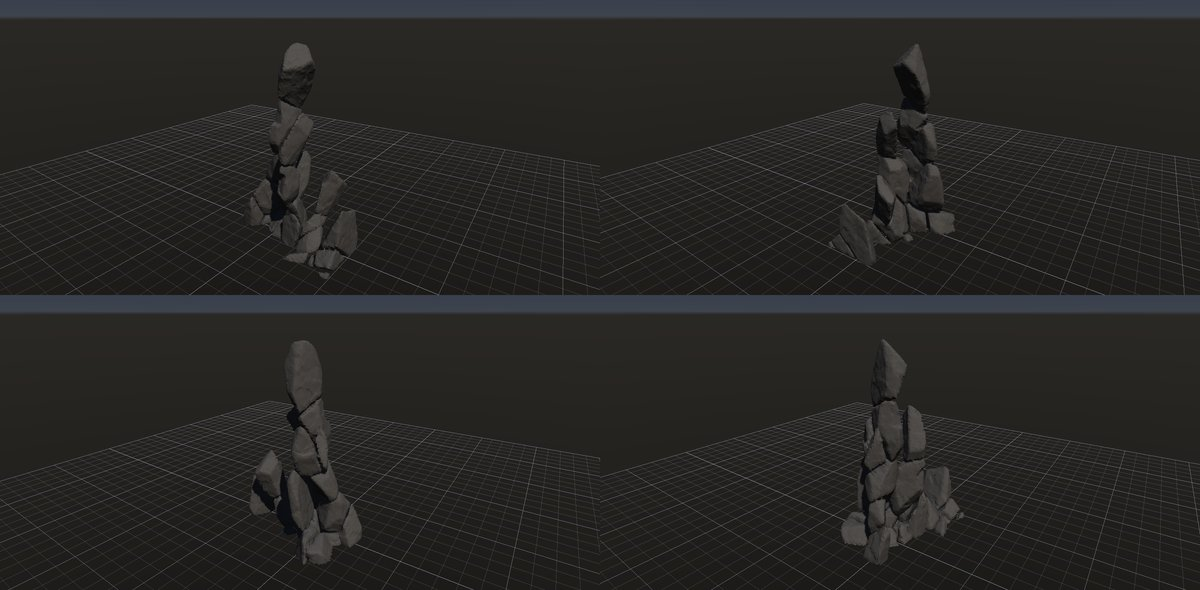
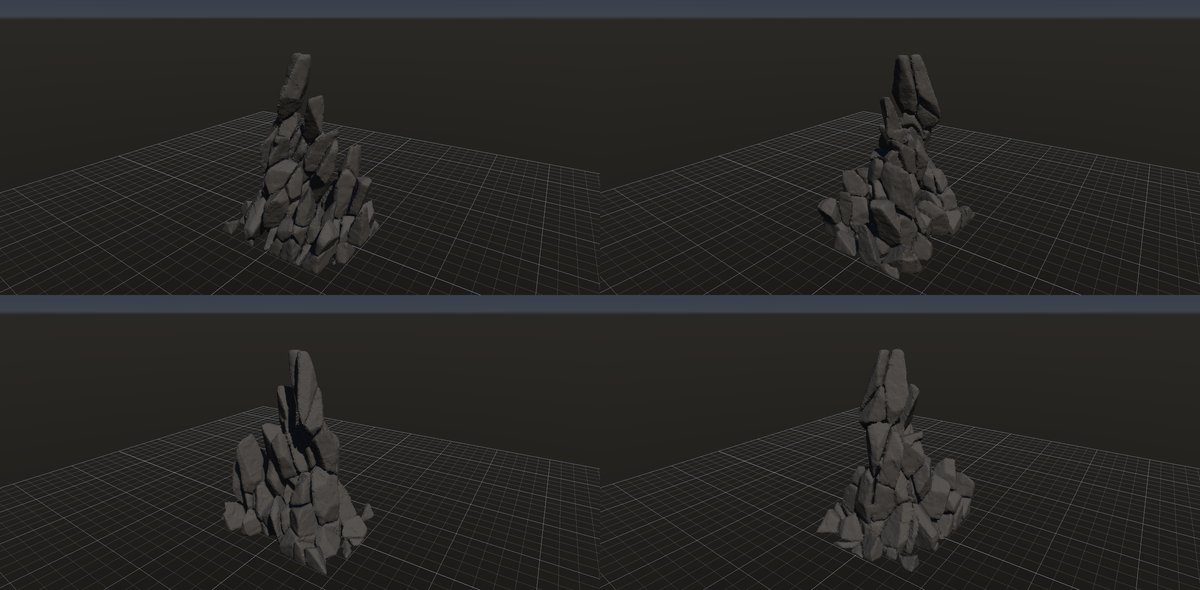
feat: 岩峰を上ほど細くする（Scatter Points の高さの勾配、Peel の側面の後退）
Scatter Points に高さの勾配（上ほど/下ほど点を密にする）を足した。
Peel に側面の後退を足した。元の側面から横へ削れる深さを「後退 × 高さ」までにし、
上ほど長く側面から削られた形（上ほど細く、芯は残る）にする。どちらも既定 0 で従来と同じ。
granite-buttress は裾が広く上ほど細い 12.5 m の尖塔にした。

diff --git a/src/geometry/PieceErosion.cpp b/src/geometry/PieceErosion.cpp
@@ -40,6 +40,9 @@ PieceSelection PeelPieces(const PieceCollection& c, const PieceSelectSettings& s
     if (!std::isfinite(s.peelSize) || s.peelSize<0 || s.peelSize>1) {
         error="大きさの効きは0〜1にしてください"; return {};
     }
+    if (!std::isfinite(s.peelRetreat) || s.peelRetreat<0 || s.peelRetreat>1000) {
+        error="側面の後退は0〜1000 mにしてください"; return {};
+    }
     // 大きさの効き: 体積を最大の片で割った値（0～1）を順位に足す。大きな片ほど後まで残る。
     double largest=0;
     for (const auto& p:c.pieces) largest=std::max(largest,p.volume);
@@ -49,7 +52,7 @@ PieceSelection PeelPieces(const PieceCollection& c, const PieceSelectSettings& s
         std::vector<Vertical> vertical;
         std::array<double,2> cap{}, covered{};
         double total=0, support=0, noise=0;
-        bool exposed=false, removed=false, protectedCore=false, grounded=false;
+        bool exposed=false, removed=false, protectedCore=false, grounded=false, tooDeep=false;
     };
     const size_t n=c.pieces.size();
     std::vector<State> state(n);
@@ -110,6 +113,48 @@ PieceSelection PeelPieces(const PieceCollection& c, const PieceSelectSettings& s
         v.noise=(double(hash>>11)*0x1.0p-53-.5)*s.peelNoise;
     }
 
+    // 側面の後退: 周りの地面が下がるにつれて上から順に崖の面が地表に出て、出た時から横へ削られる。高い所ほど長く
+    // 削られるので、元の側面から横へ削れる深さを「後退 × 高さ（0 が底、1 が頂）」までにする。深さは片の重心から、
+    // 元の外面のうち横を向いた面（法線が水平から 45° 以内）までの距離。上ほど細くなり、芯は削り切らない。
+    // 上限の深さはばらつき（±半分）で片ごとに揺らす。
+    if (s.peelRetreat>0) {
+        const auto apply=[](const Piece& p,const Vec3& v) {
+            const auto& m=p.transform;
+            return std::array<double,3>{m[0]*v.x+m[1]*v.y+m[2]*v.z+m[3],m[4]*v.x+m[5]*v.y+m[6]*v.z+m[7],
+                                        m[8]*v.x+m[9]*v.y+m[10]*v.z+m[11]};
+        };
+        std::vector<std::array<double,3>> sides, centers(n);
+        double low=std::numeric_limits<double>::infinity(), high=-low;
+        for (size_t i=0;i<n;++i) {
+            const auto& p=c.pieces[i];
+            centers[i]=apply(p,p.centroid);
+            low=std::min(low,centers[i][1]);high=std::max(high,centers[i][1]);
+            if (!p.mesh || !p.faceOrigins || p.faceOrigins->size()!=p.mesh->triangles.size()) continue;
+            for (size_t k=0;k<p.mesh->triangles.size();++k) {
+                if (!(*p.faceOrigins)[k]) continue;
+                const auto& t=p.mesh->triangles[k];
+                const auto a=apply(p,p.mesh->positions[t[0]]), b=apply(p,p.mesh->positions[t[1]]),
+                           d=apply(p,p.mesh->positions[t[2]]);
+                const std::array<double,3> u{b[0]-a[0],b[1]-a[1],b[2]-a[2]}, w{d[0]-a[0],d[1]-a[1],d[2]-a[2]};
+                const std::array<double,3> normal{u[1]*w[2]-u[2]*w[1],u[2]*w[0]-u[0]*w[2],u[0]*w[1]-u[1]*w[0]};
+                const double length=std::sqrt(normal[0]*normal[0]+normal[1]*normal[1]+normal[2]*normal[2]);
+                if (length>0 && std::abs(normal[1])<.7071*length)
+                    sides.push_back({(a[0]+b[0]+d[0])/3,(a[1]+b[1]+d[1])/3,(a[2]+b[2]+d[2])/3});
+            }
+        }
+        if (!sides.empty())
+            for (size_t i=0;i<n;++i) {
+                if (stop.stop_requested()) {error="評価をキャンセルしました";return {};}
+                double nearest=std::numeric_limits<double>::infinity();
+                for (const auto& q:sides) {
+                    const double x=q[0]-centers[i][0], y=q[1]-centers[i][1], z=q[2]-centers[i][2];
+                    nearest=std::min(nearest,x*x+y*y+z*z);
+                }
+                const double height=high>low ? (centers[i][1]-low)/(high-low) : 0;
+                state[i].tooDeep=std::sqrt(nearest)>s.peelRetreat*height*(1+state[i].noise);
+            }
+    }
+
     // 各連結部分の、露出面からグラフ距離が最も遠い片を1つ保護する。
     // 同距離なら大きい片、さらに同じなら小さいIDを選ぶ。保護は量とは独立。
     if (s.protectCore) {
@@ -145,7 +190,7 @@ PieceSelection PeelPieces(const PieceCollection& c, const PieceSelectSettings& s
         const auto& v=state[i];
         const bool sandwiched=v.cap[0]>0 && v.cap[1]>0 &&
             v.covered[0]>=v.cap[0]*(1-1e-6) && v.covered[1]>=v.cap[1]*(1-1e-6);
-        return weights[i]>0 && v.exposed && !v.removed && !v.protectedCore && v.total>0 && !sandwiched;
+        return weights[i]>0 && v.exposed && !v.removed && !v.protectedCore && !v.tooDeep && v.total>0 && !sandwiched;
     };
     const size_t eligible=std::count_if(weights.begin(),weights.end(),[](float w){return w>=0;});
     const size_t budget=size_t(std::floor(double(eligible)*s.fraction+1e-8));

diff --git a/src/geometry/Pieces.cpp b/src/geometry/Pieces.cpp
@@ -469,6 +469,10 @@ PointSet ScatterPoints(const Mesh &mesh, const ScatterSettings &s, std::string &
         error = "密度のむらは 0～1、むらの細かさは 0.5～16 にしてください";
         return {};
     }
+    if (!std::isfinite(s.heightGradient) || s.heightGradient < -1 || s.heightGradient > 1) {
+        error = "高さの勾配は -1～1 にしてください";
+        return {};
+    }
     // むらの間引きは別の乱数で行い、むら 0 では従来と同じ点の並びにする。
     uint64_t thinning = uint64_t(s.seed) ^ 0x6C75737465720000ull;
     Poly poly;
@@ -500,10 +504,19 @@ PointSet ScatterPoints(const Mesh &mesh, const ScatterSettings &s, std::string &
             }
         if (!valid)
             continue;
-        if (s.clustering > 0) {
+        if (s.clustering > 0 || s.heightGradient != 0) {
             // 受け入れる確率: むらの低い所ほど下げる（ノイズの 2 乗で、疎な所をはっきり疎にする）。
-            const double n = SmoothNoise(p * double(s.clusterScale), uint64_t(s.seed) * 0x2545F4914F6CDD1Dull);
-            if (Uniform(thinning) > (1 - s.clustering) + s.clustering * n * n)
+            double keep = 1;
+            if (s.clustering > 0) {
+                const double n = SmoothNoise(p * double(s.clusterScale), uint64_t(s.seed) * 0x2545F4914F6CDD1Dull);
+                keep = (1 - s.clustering) + s.clustering * n * n;
+            }
+            // 高さの勾配: 密にしない側ほど受け入れる確率を下げる。
+            if (s.heightGradient != 0 && hi.y > lo.y) {
+                const double t = std::clamp((p.y - lo.y) / (hi.y - lo.y), 0.0, 1.0);
+                keep *= s.heightGradient > 0 ? 1 - s.heightGradient * (1 - t) : 1 + s.heightGradient * t;
+            }
+            if (Uniform(thinning) > keep)
                 continue;
         }
         // 出力はfloatへ丸める。Voronoi Fractureは丸めた値から局所座標を求め直して内外を調べるので、
@@ -540,6 +553,8 @@ PointSet ScatterPoints(const Mesh &mesh, const ScatterSettings &s, std::string &
         h.Float(s.clustering);
         h.Float(s.clusterScale);
     }
+    if (s.heightGradient != 0)
+        h.Float(s.heightGradient);
     out.fingerprint = h.value;
     return out;
 }
@@ -553,6 +568,7 @@ PointSet ScatterPiecePoints(const PieceCollection& pieces, const ScatterSettings
     PointSet out; out.grouped=true; out.source=pieces.fingerprint;
     Hash hash; hash.Add(out.source); hash.Add(s.count); hash.Add(s.seed); hash.Add(s.planar);
     if (s.clustering > 0) { hash.Float(s.clustering); hash.Float(s.clusterScale); }
+    if (s.heightGradient != 0) hash.Float(s.heightGradient);
     std::set<uint32_t> seen;
     for (const auto& p:pieces.pieces) {
         if (stop.stop_requested()) {error="評価をキャンセルしました";return {};}

diff --git a/tests/PieceTests.cpp b/tests/PieceTests.cpp
@@ -641,6 +641,46 @@ static void RunPlaneFractureTests() {
         bad.clustering = 1.5f;
         ScatterPoints(tall, bad, error);
         Check(!error.empty(), "密度のむら: 範囲外を拒否する");
+        // 高さの勾配: 正で上半分に点が多く、負で下半分に多い。
+        const auto upper = [](const PointSet& points) {
+            int n = 0;
+            for (auto p : points.positions) n += p.y > 0;
+            return n;
+        };
+        ScatterSettings rising = even;
+        rising.heightGradient = 1;
+        ScatterSettings sinking = even;
+        sinking.heightGradient = -1;
+        const auto top = ScatterPoints(tall, rising, error);
+        Check(error.empty() && top.positions.size() == 200 && upper(top) > 140 && top.fingerprint != uniform.fingerprint,
+              "高さの勾配: 正で上ほど密になる");
+        Check(upper(ScatterPoints(tall, sinking, error)) < 60, "高さの勾配: 負で下ほど密になる");
+        bad = even;
+        bad.heightGradient = -1.5f;
+        ScatterPoints(tall, bad, error);
+        Check(!error.empty(), "高さの勾配: 範囲外を拒否する");
+        // 側面の後退: 横へ削れる深さが高さに比例し、上ほど多く欠けて、芯は残る。
+        {
+            const auto cells = FractureVoronoi(tall, uniform, {}, 9, error);
+            PieceSelectSettings retreat;
+            retreat.mode = PieceSelectMode::Peel;
+            retreat.fraction = 1;
+            retreat.peelNoise = 0;
+            retreat.protectCore = false;
+            retreat.peelRetreat = 1.2f;
+            const auto shaved = SelectPieces(cells, retreat, error);
+            int upperRemoved = 0, lowerRemoved = 0;
+            for (auto id : shaved.ids)
+                for (const auto& p : cells.pieces)
+                    if (p.id == id) (p.centroid.y > 0 ? upperRemoved : lowerRemoved) += 1;
+            Check(error.empty() && upperRemoved > 2 * lowerRemoved && shaved.ids.size() < cells.pieces.size() / 2,
+                  "側面の後退: 上ほど多く欠け、芯は削り切らない");
+            retreat.peelRetreat = 0;
+            Check(SelectPieces(cells, retreat, error).ids.size() == cells.pieces.size(), "側面の後退 0 では上限が無い");
+            retreat.peelRetreat = -1;
+            SelectPieces(cells, retreat, error);
+            Check(!error.empty(), "側面の後退: 範囲外を拒否する");
+        }
         const auto pieces = FractureVoronoi(tall, lumpy, {}, 9, error);
         PieceSelectSettings sized;
         sized.mode = PieceSelectMode::Peel;

diff --git a/src/io/PieceSettings.h b/src/io/PieceSettings.h
@@ -14,7 +14,7 @@ inline nlohmann::json WritePieceSettings(const graph::Node &node) {
                 {"offset",s->offset},{"seed",s->seed}};
     if (auto *s = std::get_if<ScatterSettings>(&node.settings))
         return {{"count", s->count}, {"seed", s->seed}, {"version", s->version}, {"planar",s->planar},
-                {"clustering", s->clustering}, {"clusterScale", s->clusterScale}};
+                {"clustering", s->clustering}, {"clusterScale", s->clusterScale}, {"heightGradient", s->heightGradient}};
     if (auto *s = std::get_if<VoronoiSettings>(&node.settings))
         return {{"rotation", s->rotation}, {"stretch", s->stretch}, {"version", s->version}};
     if (auto *s = std::get_if<PieceFilterSettings>(&node.settings))
@@ -31,7 +31,7 @@ inline nlohmann::json WritePieceSettings(const graph::Node &node) {
                 {"invert", s->invert},
                 {"layer",s->layer},
                 {"rimLayers",s->rimLayers}, {"rimSide",s->rimSide}, {"rimFalloff",s->rimFalloff},
-                {"peelNoise",s->peelNoise}, {"protectCore",s->protectCore}, {"grounded",s->grounded}, {"peelSize",s->peelSize}, {"stability",s->stability},
+                {"peelNoise",s->peelNoise}, {"protectCore",s->protectCore}, {"grounded",s->grounded}, {"peelSize",s->peelSize}, {"stability",s->stability}, {"peelRetreat",s->peelRetreat},
                 {"producer", s->producer},
                 {"generation", std::to_string(s->generation)},
                 {"ids", s->ids}};
@@ -108,6 +108,7 @@ inline void ReadPieceSettings(graph::Node &node, const nlohmann::json &value) {
         read(value, "planar", s->planar);
         read(value, "clustering", s->clustering);
         read(value, "clusterScale", s->clusterScale);
+        read(value, "heightGradient", s->heightGradient);
     }
     if (auto *s = std::get_if<VoronoiSettings>(&node.settings)) {
         read(value, "rotation", s->rotation);
@@ -138,6 +139,7 @@ inline void ReadPieceSettings(graph::Node &node, const nlohmann::json &value) {
         read(value, "grounded",s->grounded);
         read(value, "peelSize",s->peelSize);
         read(value, "stability",s->stability);
+        read(value, "peelRetreat",s->peelRetreat);
         read(value, "producer", s->producer);
         generation(s->generation);
         read(value, "ids", s->ids);

diff --git a/src/app/ApplicationPiecePanel.cpp b/src/app/ApplicationPiecePanel.cpp
@@ -34,7 +34,10 @@ void Application::DrawPieceSettings(graph::Node &node) {
                 "大きなノイズで点を間引き、割れの多い帯（小さな片）と割れの少ない芯（大きな片）を作ります。0では一様です。");
             changed |= ui::PropertyFloat("むらの細かさ", &scatter->clusterScale, .5f, 16, 2,
                 "形の最長辺あたりのむらの数です。");
+            changed |= ui::PropertyFloat("高さの勾配", &scatter->heightGradient, -1, 1, 0,
+                "正で上ほど点を密に（上ほど小さな片）、負で下ほど密にします。地表に近いほど節理が密になる様子です。0では一様です。");
             scatter->clustering = std::clamp(scatter->clustering, 0.f, 1.f);
+            scatter->heightGradient = std::clamp(scatter->heightGradient, -1.f, 1.f);
             scatter->clusterScale = std::clamp(scatter->clusterScale, .5f, 16.f);
             int seed = int(scatter->seed);
             if (ui::PropertyInt("Seed", &seed, 0, 1000000, 1)) {
@@ -97,6 +100,10 @@ void Application::DrawPieceSettings(graph::Node &node) {
                 changed |= ui::PropertyFloat("大きさの効き", &selection->peelSize, 0, 1, 0,
                     "小さな片ほど先に欠けます（崩れやすい）。大きな片の芯が残ります。");
                 selection->peelSize = std::clamp(selection->peelSize, 0.f, 1.f);
+                changed |= ui::PropertyFloat("側面の後退 (m)", &selection->peelRetreat, 0, 1000, 0,
+                    "元の側面から横へ削れる深さの上限です。頂でこの深さ、底で 0 になり、上ほど細くなります。"
+                    "上ほど長く側面から削られた様子です。0 では上限がありません。");
+                selection->peelRetreat = std::clamp(selection->peelRetreat, 0.f, 1000.f);
                 changed |= ui::PropertyBool("接地", &selection->grounded, false,
                     "下向きの外面を地面に支えられた面として扱い、そこからは欠きません。"
                     "地面から生えた岩（岩峰・露頭・崖）が上と横から欠け、根元が最後まで残ります。");

diff --git a/src/graph/NodeParams.cpp b/src/graph/NodeParams.cpp
@@ -105,6 +105,8 @@ constexpr ParamDefinition kParams[] = {
     {K::ScatterPoints, "pieces.clustering", T::Float, 0, 1, "比", "密度のむら",
      "大きなノイズで点を間引き、割れの多い帯（小さな片）と割れの少ない芯（大きな片）を作る。0 で一様", C::Error},
     {K::ScatterPoints, "pieces.clusterScale", T::Float, 0.5, 16, "最長辺あたりのむらの数", "むらの細かさ", "", C::Error},
+    {K::ScatterPoints, "pieces.heightGradient", T::Float, -1, 1, "比", "高さの勾配",
+     "正で上（ローカル +Y）ほど点を密に（上ほど小さな片）、負で下ほど密にする。地表に近いほど節理が密になる様子。0 で一様", C::Error},
     {K::ScatterPoints, "pieces.seed", T::Int, 0, N, "", "Seed", "", C::None},
     {K::ScatterPoints, "pieces.version", T::Int, 1, 1, "", "", "アルゴリズムの版。1 のまま", C::Error, {}, true},
     {K::VoronoiFracture, "pieces.rotation", T::Float3, N, N, "度", "方向", "分割の座標系の向き（Z → X → Y）", C::Error},
@@ -129,6 +131,8 @@ constexpr ParamDefinition kParams[] = {
     {K::PieceSelect, "pieces.protectCore", T::Bool, N, N, "", "中心の片を保護", "peel 用。上下を覆われた中間層を守る", C::None},
     {K::PieceSelect, "pieces.peelSize", T::Float, 0, 1, "比", "大きさの効き",
      "peel 用。小さな片ほど先に欠ける（崩れやすい）。大きな片の芯が残る", C::Error},
+    {K::PieceSelect, "pieces.peelRetreat", T::Float, 0, 1000, "m", "側面の後退",
+     "peel 用。元の側面（横を向いた外面）から横へ削れる深さの上限。頂でこの値、底で 0（重心の高さに比例）。上ほど細くなり、芯は削り切らない。0 で上限なし", C::Error},
     {K::PieceSelect, "pieces.stability", T::Float, 0, 1, "比", "安定",
      "peel・接地用。下で支える片に載る面積が片の大きさ（体積の 2/3 乗）に足りないと転げ落ちる。頭でっかちの片が残らず、上ほど細く尖る", C::Error},
     {K::PieceSelect, "pieces.grounded", T::Bool, N, N, "", "接地",

diff --git a/src/graph/RockEvaluator.cpp b/src/graph/RockEvaluator.cpp
@@ -124,6 +124,7 @@ std::optional<std::string> VolumeKey(const NodeGraph& graph, GraphId id, const s
         add(layers->thicknessVariation); add(layers->sizeVariation); add(layers->offset); add(layers->seed);
     } else if (const auto* scatter = std::get_if<geometry::ScatterSettings>(&node->settings)) {
         add(scatter->count); add(scatter->seed); add(scatter->version); add(scatter->planar); add(scatter->clustering); add(scatter->clusterScale);
+        add(scatter->heightGradient);
     } else if (const auto* voronoi = std::get_if<geometry::VoronoiSettings>(&node->settings)) {
         add(voronoi->rotation); add(voronoi->stretch); add(voronoi->version);
     } else if (const auto* selection = std::get_if<geometry::PieceSelectSettings>(&node->settings)) {
@@ -131,6 +132,7 @@ std::optional<std::string> VolumeKey(const NodeGraph& graph, GraphId id, const s
         add(selection->minVolume); add(selection->maxVolume); add(selection->fraction); add(selection->invert); add(selection->producer); add(selection->generation); add(selection->layer);
         add(selection->rimLayers); add(selection->rimSide); add(selection->rimFalloff);
         add(selection->peelNoise); add(selection->protectCore); add(selection->grounded); add(selection->peelSize); add(selection->stability);
+        add(selection->peelRetreat);
         add(selection->ids.size()); for (auto value : selection->ids) add(value);
     } else if (const auto* filter = std::get_if<geometry::PieceFilterSettings>(&node->settings)) {
         add(filter->keep);

diff --git a/src/geometry/Pieces.h b/src/geometry/Pieces.h
@@ -20,6 +20,10 @@ struct ScatterSettings {
     // 大きな片）を作る。clusterScale は形の最長辺あたりのむらの数（0.5～16）。0 なら従来と同じ配置。
     float clustering = 0;
     float clusterScale = 2;
+    // 高さの勾配（-1～1）。正で上（ローカル +Y）ほど点を密に、負で下ほど密にする。地表に近いほど節理が密になる
+    // （深い所ほど割れの間隔が広い）ことを表す。受け入れる確率を、高さ t（0 が底、1 が頂）で 1 − g × (1 − t)
+    // （負なら 1 − |g| × t）にする。0 なら従来と同じ配置。
+    float heightGradient = 0;
     bool operator==(const ScatterSettings &) const = default;
 };
 struct VoronoiSettings {
@@ -112,6 +116,9 @@ struct PieceSelectSettings {
     bool grounded = false;
     // peel・接地用。安定（0～1）。下で支える片に載る面積が片の大きさに足りないと転げ落ちる（頭でっかちの片が残らない）。
     float stability = 0;
+    // peel 用。側面の後退（m、0 で無効）。元の側面から横へ削れる深さを「後退 × 高さ（0 が底、1 が頂）」までにする。
+    // 周りの地面が下がるにつれ上ほど早く地表に出て長く側面から削られたことを表し、上ほど細くなる。芯は削り切らない。
+    float peelRetreat = 0;
     int producer = 0;
     uint64_t generation = 0;
     std::vector<uint32_t> ids;

diff --git a/tests/NodeParamsTests.cpp b/tests/NodeParamsTests.cpp
@@ -171,6 +171,7 @@ const std::vector<EdgeRule>& EdgeRules() {
         {"pieceSelect:pieces.rimFalloff", {{"pieces.mode", 5}}},
         {"pieceSelect:pieces.peelNoise", {{"pieces.mode", 6}}},
         {"pieceSelect:pieces.peelSize", {{"pieces.mode", 6}}},
+        {"pieceSelect:pieces.peelRetreat", {{"pieces.mode", 6}}},
         {"pieceSelect:pieces.stability", {{"pieces.mode", 6}, {"pieces.grounded", true}}},
         {"pieceSelect:pieces.minVolume", {{"pieces.mode", 3}}},
         {"pieceSelect:pieces.maxVolume", {{"pieces.mode", 3}, {"pieces.minVolume", 0}}},

diff --git a/src/graph/PieceEvaluator.cpp b/src/graph/PieceEvaluator.cpp
@@ -55,6 +55,7 @@ RockEvaluation EvaluatePieceNode(const NodeGraph &graph, const Node &node, RockE
             add(s.planar);
             add(s.clustering);
             add(s.clusterScale);
+            add(s.heightGradient);
         } else {
             const bool hasPoints = node.inputs.size() > 1 && graph.FindUpstreamNodeForPin(node.inputs[1].id);
             const bool hasPlanes = node.inputs.size() > 2 && graph.FindUpstreamNodeForPin(node.inputs[2].id);

diff --git a/docs/research/rocks.md b/docs/research/rocks.md
@@ -1,7 +1,7 @@
 # 岩の研究ページ
 
 作成日時: 2026-10-01 12:50
-更新日時: 2026-10-02 00:30
+更新日時: 2026-10-02 01:55
 
 「あらゆる種類の岩を作れること」を目標に、岩の種類ごとに今の出来・作り方・課題・改善の履歴を残すページ。一つずつ改善していく。足りないノードの整理（G 番号）は [岩の種類の網羅](../reference/rock-catalog.md)、組み方の手順は [skill](../../.agents/skills/rock-graph/SKILL.md)。
 
@@ -32,7 +32,7 @@
 | [河原の丸石](#河原の丸石) | ○ | `river-pebble` | 形が単調 |
 | [丸い転石](#丸い転石) | ○ | `rounded-boulder` | — |
 | [花崗岩のシーティング](#花崗岩のシーティング) | △ | `granite-sheeting` | 平らな面のボクセルの格子模様 |
-| [花崗岩の岩峰](#花崗岩の岩峰) | △ | `granite-buttress` | 微小な空洞が残る |
+| [花崗岩の岩峰](#花崗岩の岩峰) | △ | `granite-buttress` | 裾に箱の四角い外周が残る |
 | [黒曜石・フリント](#黒曜石フリント) | ○ | `obsidian` | ガラス質の素材 |
 | [礫岩](#礫岩) | ○ | `conglomerate` | 礫と基質の色の違い |
 | [角礫岩](#角礫岩) | △ | `breccia` | 礫と基質の色の違い |
@@ -175,8 +175,8 @@
 - 状態: △
 - レシピ: [`granite-buttress`](../../examples/ai-recipes/granite-buttress.rockgraph)
 - 手本: 木曽駒ケ岳（宝剣岳〜千畳敷）の花崗岩の岩峰。ユーザーが撮った写真（`docs/references/DSC08761`・`DSC08749`。Git の対象外）。急傾斜の節理で縦長の塔に割れ、凍結破砕で尖る。塔は同じ向きに傾き、根元でつながる。
-- 作り方: 成因どおりに組む。大きめの岩体（Base Shape の箱）を、点の Voronoi で不規則な多面体のブロックに割る。分割の座標系を主な節理の向き（76°）に回し、伸長 [2.5, 1, 1.6] で節理面の方向に細長く・節理面に垂直に薄くする。Scatter Points の密度のむらで割れの多い帯と割れの少ない芯を作り、Piece Select の Peel（接地・大きさの効き）で外周の小さなブロックから抜き取る（凍結破砕。底からは欠かず、下のブロックに載っていない片は落ちる）。Piece Transform のばらつきでブロックを少しずつずらして傾け、To Volume でまとめる（ずれた隙間が段違いの継ぎ目になる）。局所の欠け・小面のノイズ・角の摩耗。割れの少ない芯が 1 本の塔として残る。Peel の「安定」で頭でっかちのブロックを落とし、上ほど細く尖らせる。岩体は縦長の箱（10 × 15 × 8 m）、塔は高さ約 11.5 m。山グラフで斜面に撒く部品として使う想定。
-- 課題: 足元に崩れたブロックの塊が別に残る（最大の塊が体積の 89%。崖錐とも見える）。頂のブロックは細長いが先端が丸い。塔は 1 本でよい（ユーザー判断）。
+- 作り方: 成因どおりに組む。大きめの岩体（Base Shape の箱）を、点の Voronoi で不規則な多面体のブロックに割る。分割の座標系を主な節理の向き（76°）に回し、伸長 [2.5, 1, 1.6] で節理面の方向に細長く・節理面に垂直に薄くする。Scatter Points の密度のむらで割れの多い帯と割れの少ない芯を作り、Piece Select の Peel（接地・大きさの効き）で外周の小さなブロックから抜き取る（凍結破砕。底からは欠かず、下のブロックに載っていない片は落ちる）。Piece Transform のばらつきでブロックを少しずつずらして傾け、To Volume でまとめる（ずれた隙間が段違いの継ぎ目になる）。局所の欠け・小面のノイズ・角の摩耗。割れの少ない芯が 1 本の塔として残る。Peel の「安定」で頭でっかちのブロックを落とす。上ほど細くするのは、Scatter Points の高さの勾配（上ほど節理が密で、頂が小さなブロックに割れる）と、Peel の側面の後退（上ほど長く側面から削られる。横へ削れる深さを頂で 4 m、底で 0 まで）。進行は 1 で、後退の上限まで削る。岩体は縦長の箱（10 × 15 × 8 m）、塔は高さ約 12.5 m で裾が広い。山グラフで斜面に撒く部品として使う想定。
+- 課題: 裾に元の箱の四角い外周が残る所がある（底の後退が 0 のため）。ブロックの積み重なりが目立ち、一枚岩の塔らしさは弱い。塔は 1 本でよい（ユーザー判断）。
 - 履歴:
   - 2026-10-01 初版。縦長の塊 1 つを割れ目で塔に分ける案は、溝が格子に並んでレンガの柱になった（上が細らない）。全体を大きな平面で切ると高さが半分に縮んだ（水平に近い面が頂を削る）。塔を別々に作って和にする案に変えた。根元の塊を無くすと塔どうしが溶けて 1 つの塊になり、残して埋める形にした。割れ目は noise を上げると点線に途切れ、variation を下げると石積みの格子になるので、主な節理だけ幅を持たせ、横の節理は細く浅くした。
   - 2026-10-01 Volume Crack に有限の割れ目（長さ・割合・段違い）を足して使った。節理が途中で止まって段違いにずれ、格子の感じが減った。主な節理は間隔 1.1 → 0.7 m・長さ 0.3・割合 0.55・段違い 0.8、横の節理は長さ 0.15・割合 0.35。
@@ -184,6 +184,7 @@
   - 2026-10-01 ユーザーの指摘（ブロックがそろいすぎて不自然。直方体ではなく、Voronoi のような多面体がずれている感じにしたい）で、構造面の分割を点の Voronoi に替えた。座標系を節理の向きに回して伸長し、節理の向きに細長い多面体にした。Piece Transform にばらつき（片ごとのずれ・傾き）を足してブロックをずらした。最初は元の箱の天面と側面が平らに残り石垣のように見えたので、岩体を奥行きも大きくして侵食を進めた。構造面で割る組み方（Voronoi Fracture の Planes 入力）は、層理・板状節理など規則的な割れ方の岩に使う。
   - 2026-10-01 ユーザーの指摘（塔のようなひと塊にまとまっていない）で、Scatter Points に密度のむら、Peel に大きさの効きを足した（割れの少ない所が硬い芯として残る、という成因）。最初は元の箱の天面が平らに残って箱に見えたので、岩体を縦長にし、大きさの効きを弱めて上からの侵食を進めた。進行を上げすぎると石を積んだケルンのように細くなった。楕円体の岩体は、メッシュが凸の判定（許容差 2e-7）を通らず使えなかった。
   - 2026-10-01 ユーザーの指摘（上に大きな塊が乗っていて重力に反して見える。上ほど細く鋭く尖るのが自然）で、Peel の接地に「安定」を足した。安定 0.3〜0.45 で細い尖塔、0.6 では裾の広いピラミッド形で高さ 9 m に下がった。0.45 を使った。
+  - 2026-10-02 ユーザーの指摘（岩峰は上ほど細くなる。Voronoi の点を上ほど細かくしては）で、Scatter Points に高さの勾配を足した。勾配だけでは逆効果で、上の小さな片が大きさの効きで先に崩れて背が下がり（11.5 → 9〜10 m）、底の大きな片が箱型の裾に残った。Peel に「高さの効き」（上の片ほど横向きの露出面から先に欠く）を試したが、上の段が芯まで横に食われ背が 6〜7 m になり、取り消した。横へ削れる深さを高さに比例させる「側面の後退」で、裾が広く上ほど細い形になった（後退 3.5 m で 10.7 m）。高さの勾配 0.4 を足すと頂が小さな片で細く残り 12.5 m になった。後退があると進行は効かなくなる（上限で止まる）。
 
 ### 黒曜石・フリント
 

diff --git a/docs/reference/rock-catalog.md b/docs/reference/rock-catalog.md
@@ -1,7 +1,7 @@
 # 岩の種類の網羅（作れる岩と足りないノード）
 
 作成日時: 2026-10-01 08:30
-更新日時: 2026-10-02 00:30
+更新日時: 2026-10-02 01:55
 
 ## 目的
 
@@ -30,7 +30,7 @@
 | 河原の丸石・円礫 | 平たく丸い、なめらか | ○ | `river-pebble`（楕円体 + 弱いノイズ、Marching Tetrahedra） |
 | 丸い転石・迷子石 | 丸いが大きな面が残る | ○ | `rounded-boulder` |
 | 花崗岩のコアストーン・シーティング | 丸い塊に、表面に沿って湾曲した剥離の割れ目 | △ | `granite-sheeting`（Volume Crack の「表面に沿う殻」。G3 で対応）。剥がれた板の段は出る。段がもう少し厚く、縁が欠けているとよい |
-| 花崗岩の岩峰（岩稜） | 急傾斜の節理で割れた尖った塔が並び、根元でつながる | △ | `granite-buttress`（節理の向きに伸ばした Voronoi、密度のむら、Peel の接地と大きさの効き、ばらつき）。塔は 1 本で、複数の塔が根元でつながる形は未 |
+| 花崗岩の岩峰（岩稜） | 急傾斜の節理で割れた尖った塔が並び、根元でつながる | △ | `granite-buttress`（節理の向きに伸ばした Voronoi、密度のむらと高さの勾配、Peel の接地・大きさの効き・安定・側面の後退、ばらつき）。塔は 1 本で、複数の塔が根元でつながる形は未 |
 | 黒曜石・フリントの貝殻状断口 | 滑らかに湾曲した割れ面、鋭い稜 | ○ | `obsidian`（Plane Cuts の「曲がり」。G4 で対応）。ガラス質の見た目は素材 |
 | 礫岩 | 丸い礫が埋まって突き出る | ○ | `conglomerate`（Volume Scatter の楕円体・和。G7 で対応）。礫と基質の色の違いは **G6** |
 | 角礫岩 | 角張った礫が埋まる | △ | `breccia`（Volume Scatter の箱・和）。形は出るが、礫と基質の色の違いが無いと弱い → **G6** |
